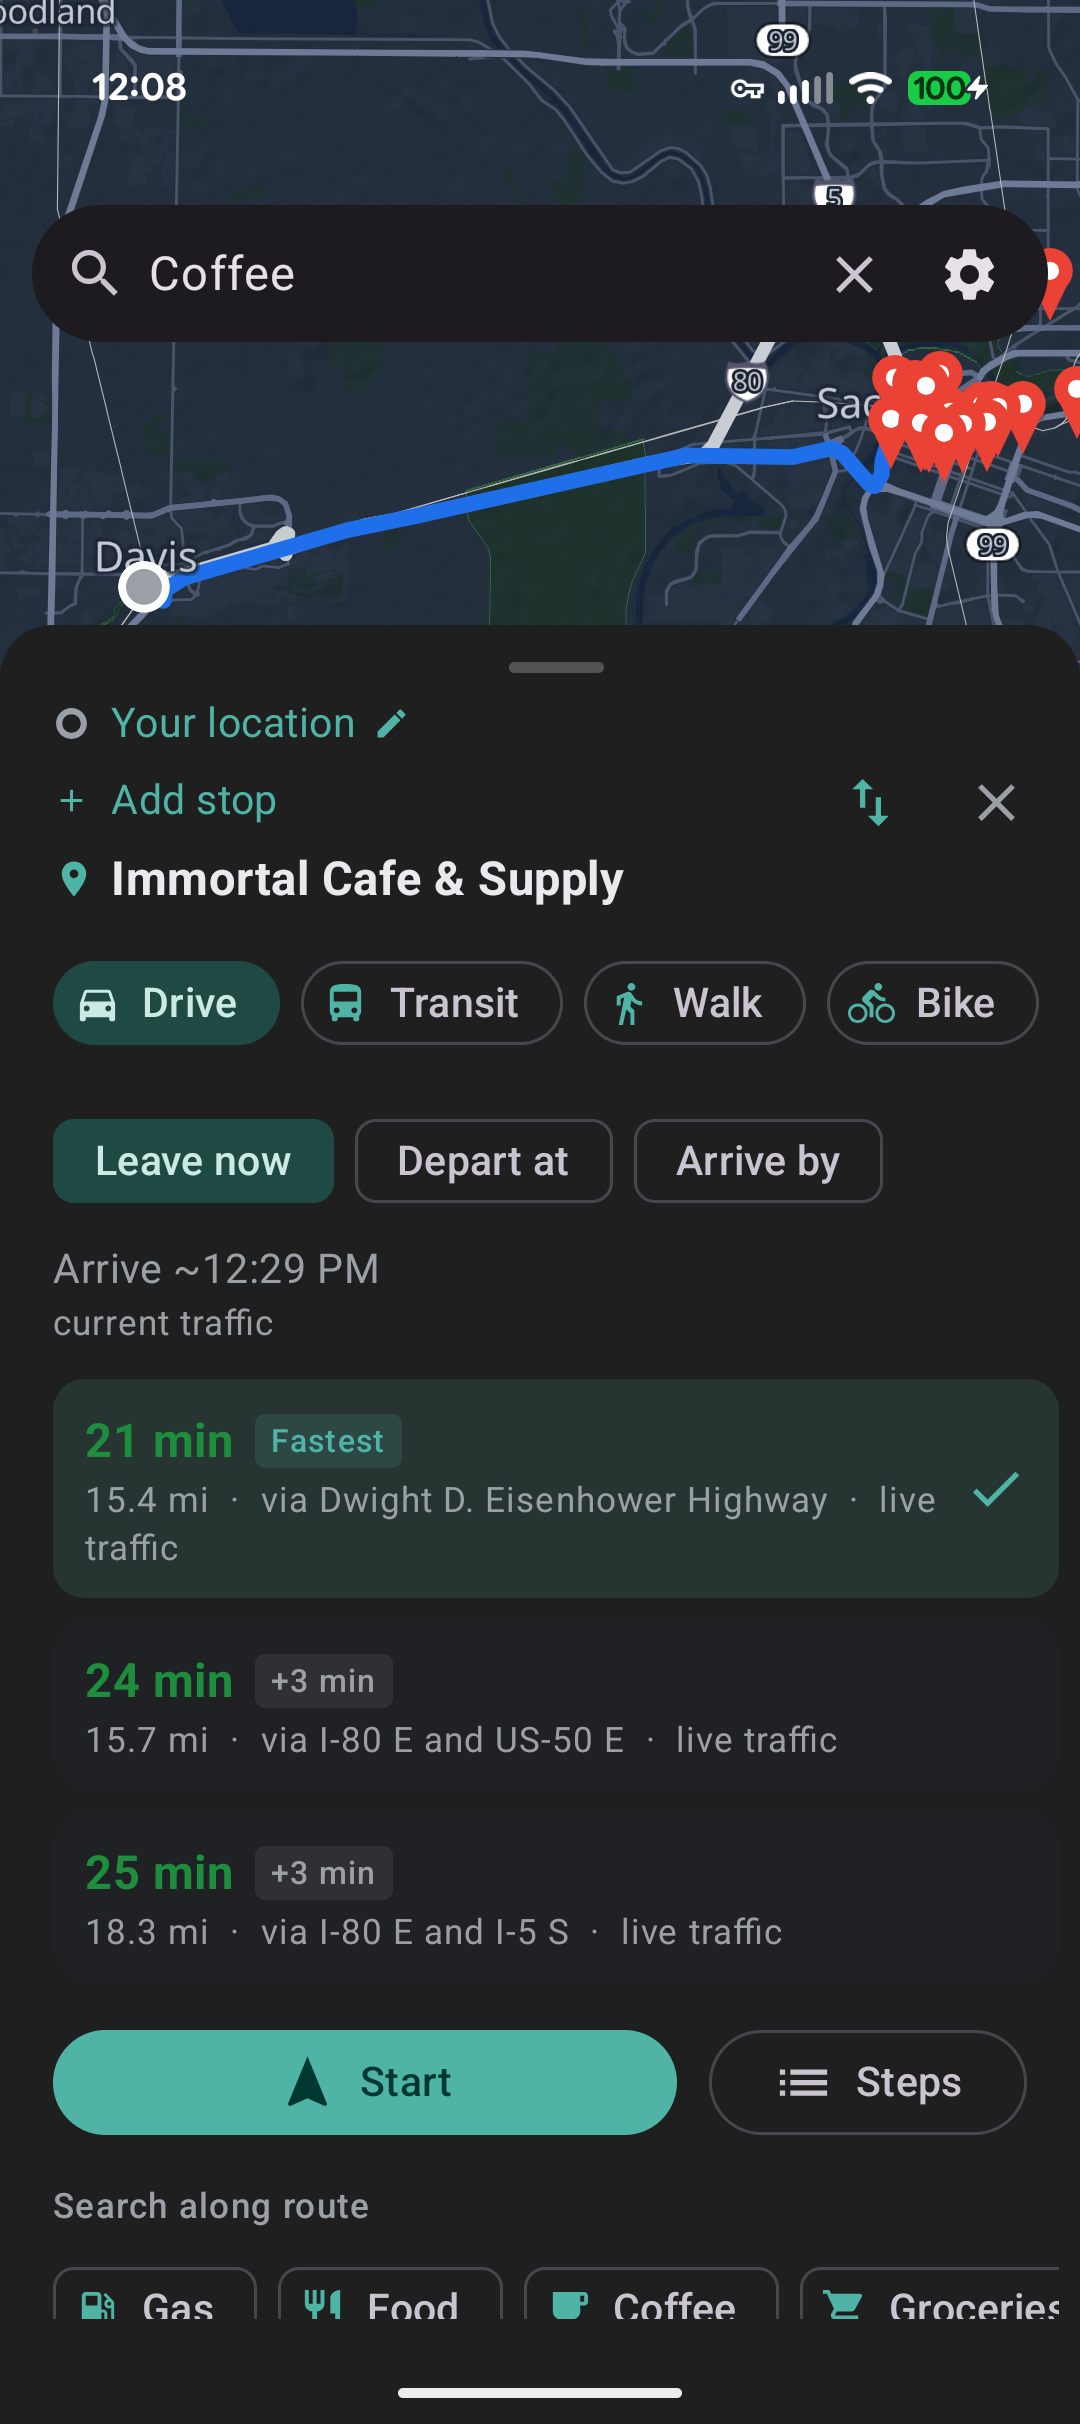
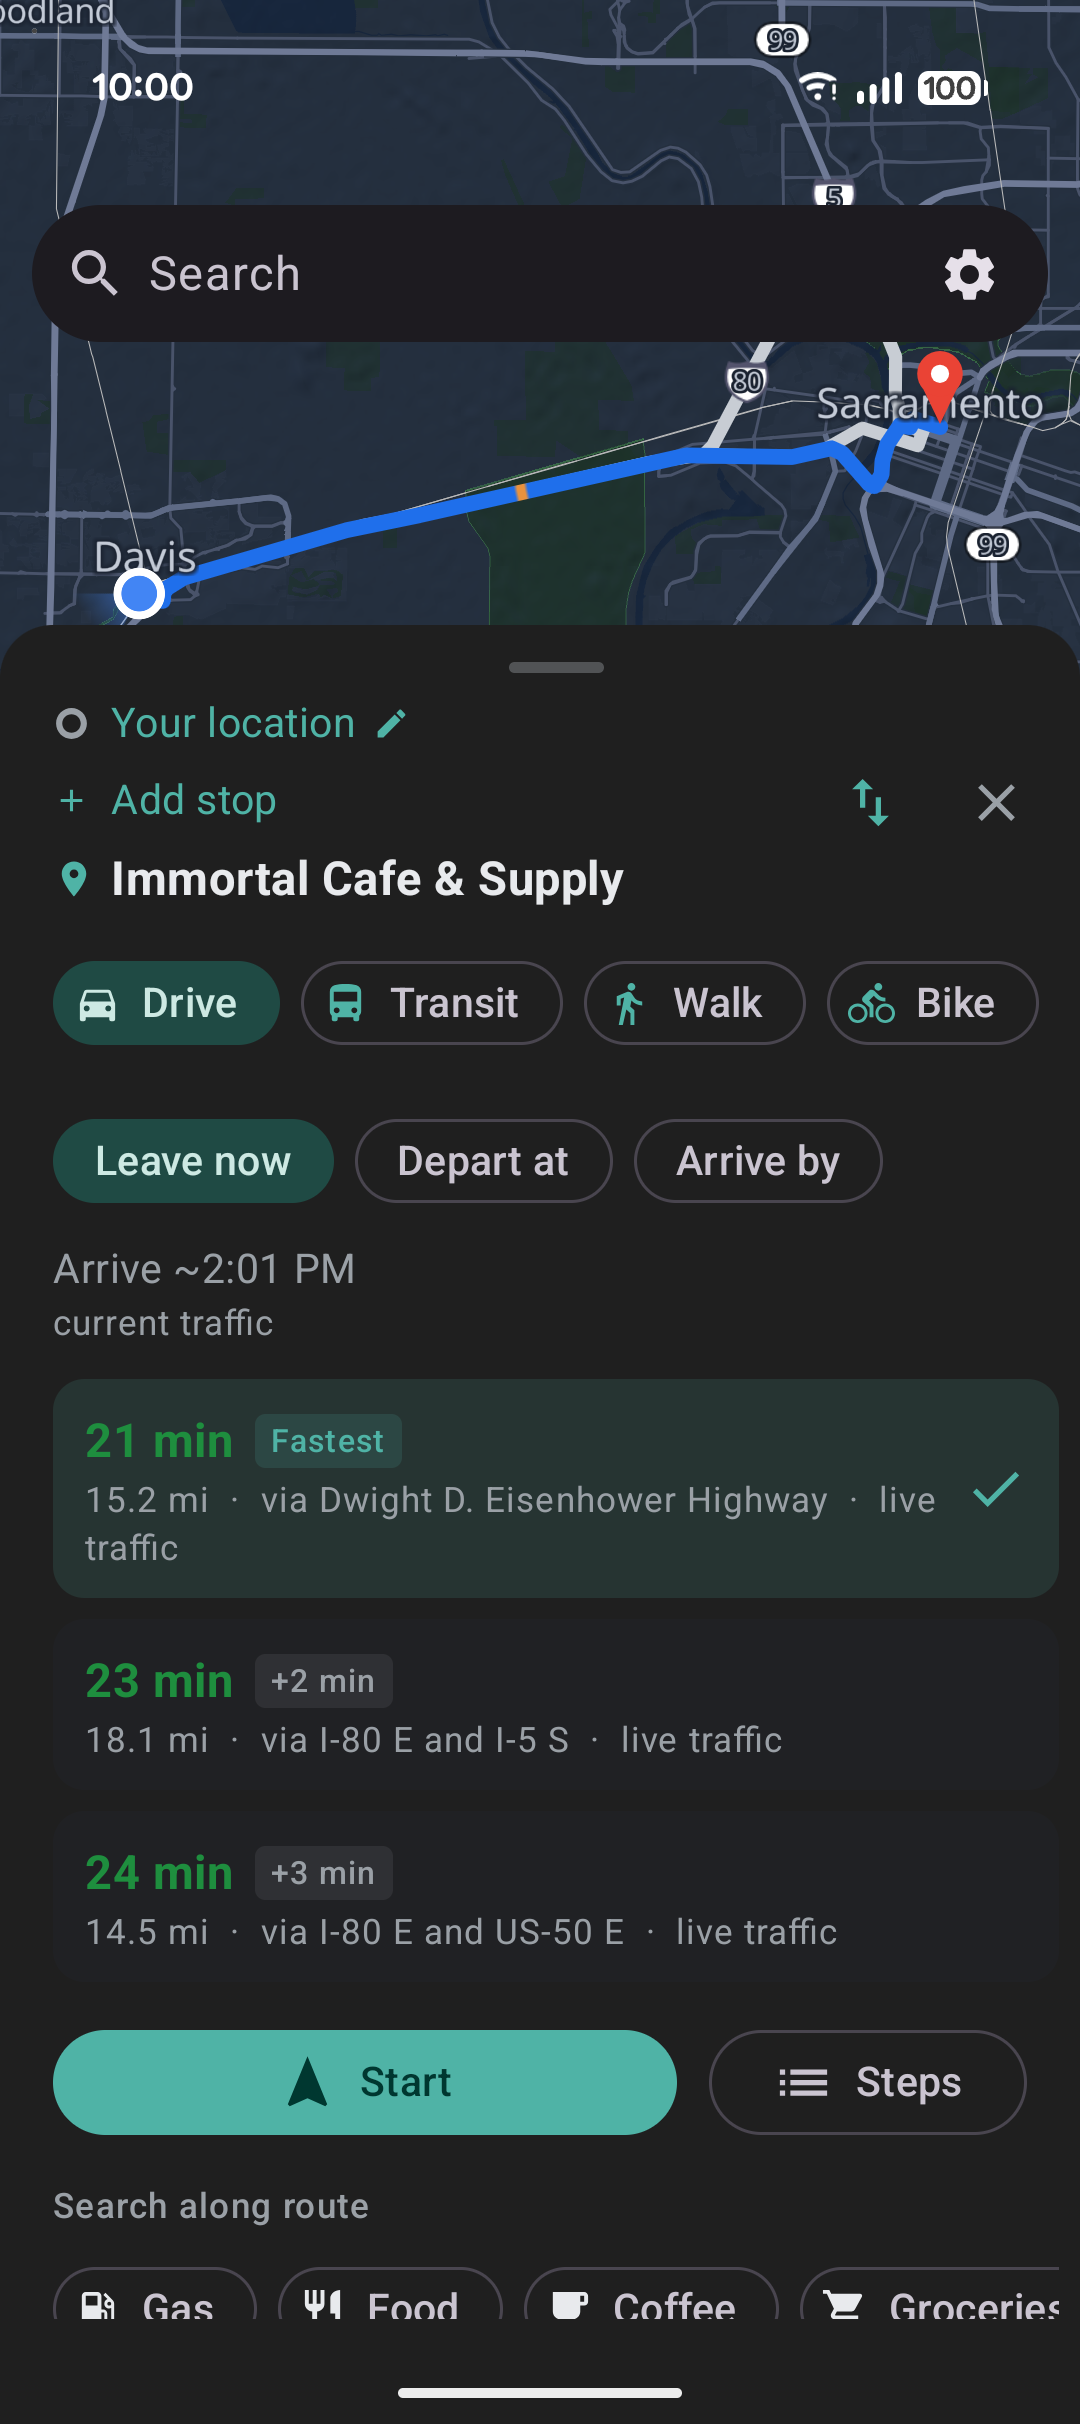
Make the directions chips match the rest of Vela
The depart-time chips and the search-along-route chips were still
using the default Material shape. Give them the stadium pill shape
every other chip in the app uses, and tint the along-route icons to
match. Also reshoot the map and directions screenshots without the
notification clutter in the status bar.

diff --git a/app/src/main/java/app/vela/ui/place/PlaceSheet.kt b/app/src/main/java/app/vela/ui/place/PlaceSheet.kt
@@ -1176,7 +1176,16 @@ fun DirectionsPanel(
                                 selected = false,
                                 onClick = { onSearchAlongRoute(query) },
                                 label = { Text(stringResource(labelRes)) },
-                                leadingIcon = { Icon(icon, contentDescription = null, modifier = Modifier.size(18.dp)) },
+                                leadingIcon = {
+                                    Icon(
+                                        icon,
+                                        contentDescription = null,
+                                        modifier = Modifier.size(18.dp),
+                                        tint = ink,
+                                    )
+                                },
+                                // Stadium pill, matching the map category chips + the mode chips above.
+                                shape = androidx.compose.foundation.shape.CircleShape,
                             )
                         }
                     }
@@ -1240,10 +1249,12 @@ private fun DepartTimeChooser(
             Modifier.horizontalScroll(rememberScrollState()),
             horizontalArrangement = Arrangement.spacedBy(8.dp),
         ) {
-            FilterChip(selected = mode == 0, onClick = { mode = 0; emit() }, label = { Text(stringResource(R.string.place_leave_now)) })
-            FilterChip(selected = mode == 1, onClick = { mode = 1; emit() }, label = { Text(stringResource(R.string.place_depart_at)) })
-            FilterChip(selected = mode == 2, onClick = { mode = 2; emit() }, label = { Text(stringResource(R.string.place_arrive_by)) })
-            if (isTransit) FilterChip(selected = mode == 3, onClick = { mode = 3; emit() }, label = { Text(stringResource(R.string.place_last_available)) })
+            // Stadium pills, matching every other Vela chip (CLAUDE.md chip style).
+            val pill = androidx.compose.foundation.shape.CircleShape
+            FilterChip(selected = mode == 0, onClick = { mode = 0; emit() }, label = { Text(stringResource(R.string.place_leave_now)) }, shape = pill)
+            FilterChip(selected = mode == 1, onClick = { mode = 1; emit() }, label = { Text(stringResource(R.string.place_depart_at)) }, shape = pill)
+            FilterChip(selected = mode == 2, onClick = { mode = 2; emit() }, label = { Text(stringResource(R.string.place_arrive_by)) }, shape = pill)
+            if (isTransit) FilterChip(selected = mode == 3, onClick = { mode = 3; emit() }, label = { Text(stringResource(R.string.place_last_available)) }, shape = pill)
         }
         // Time + date pickers for depart/arrive (Google-style: a time field AND a date field).
         if (mode == 1 || mode == 2) {
